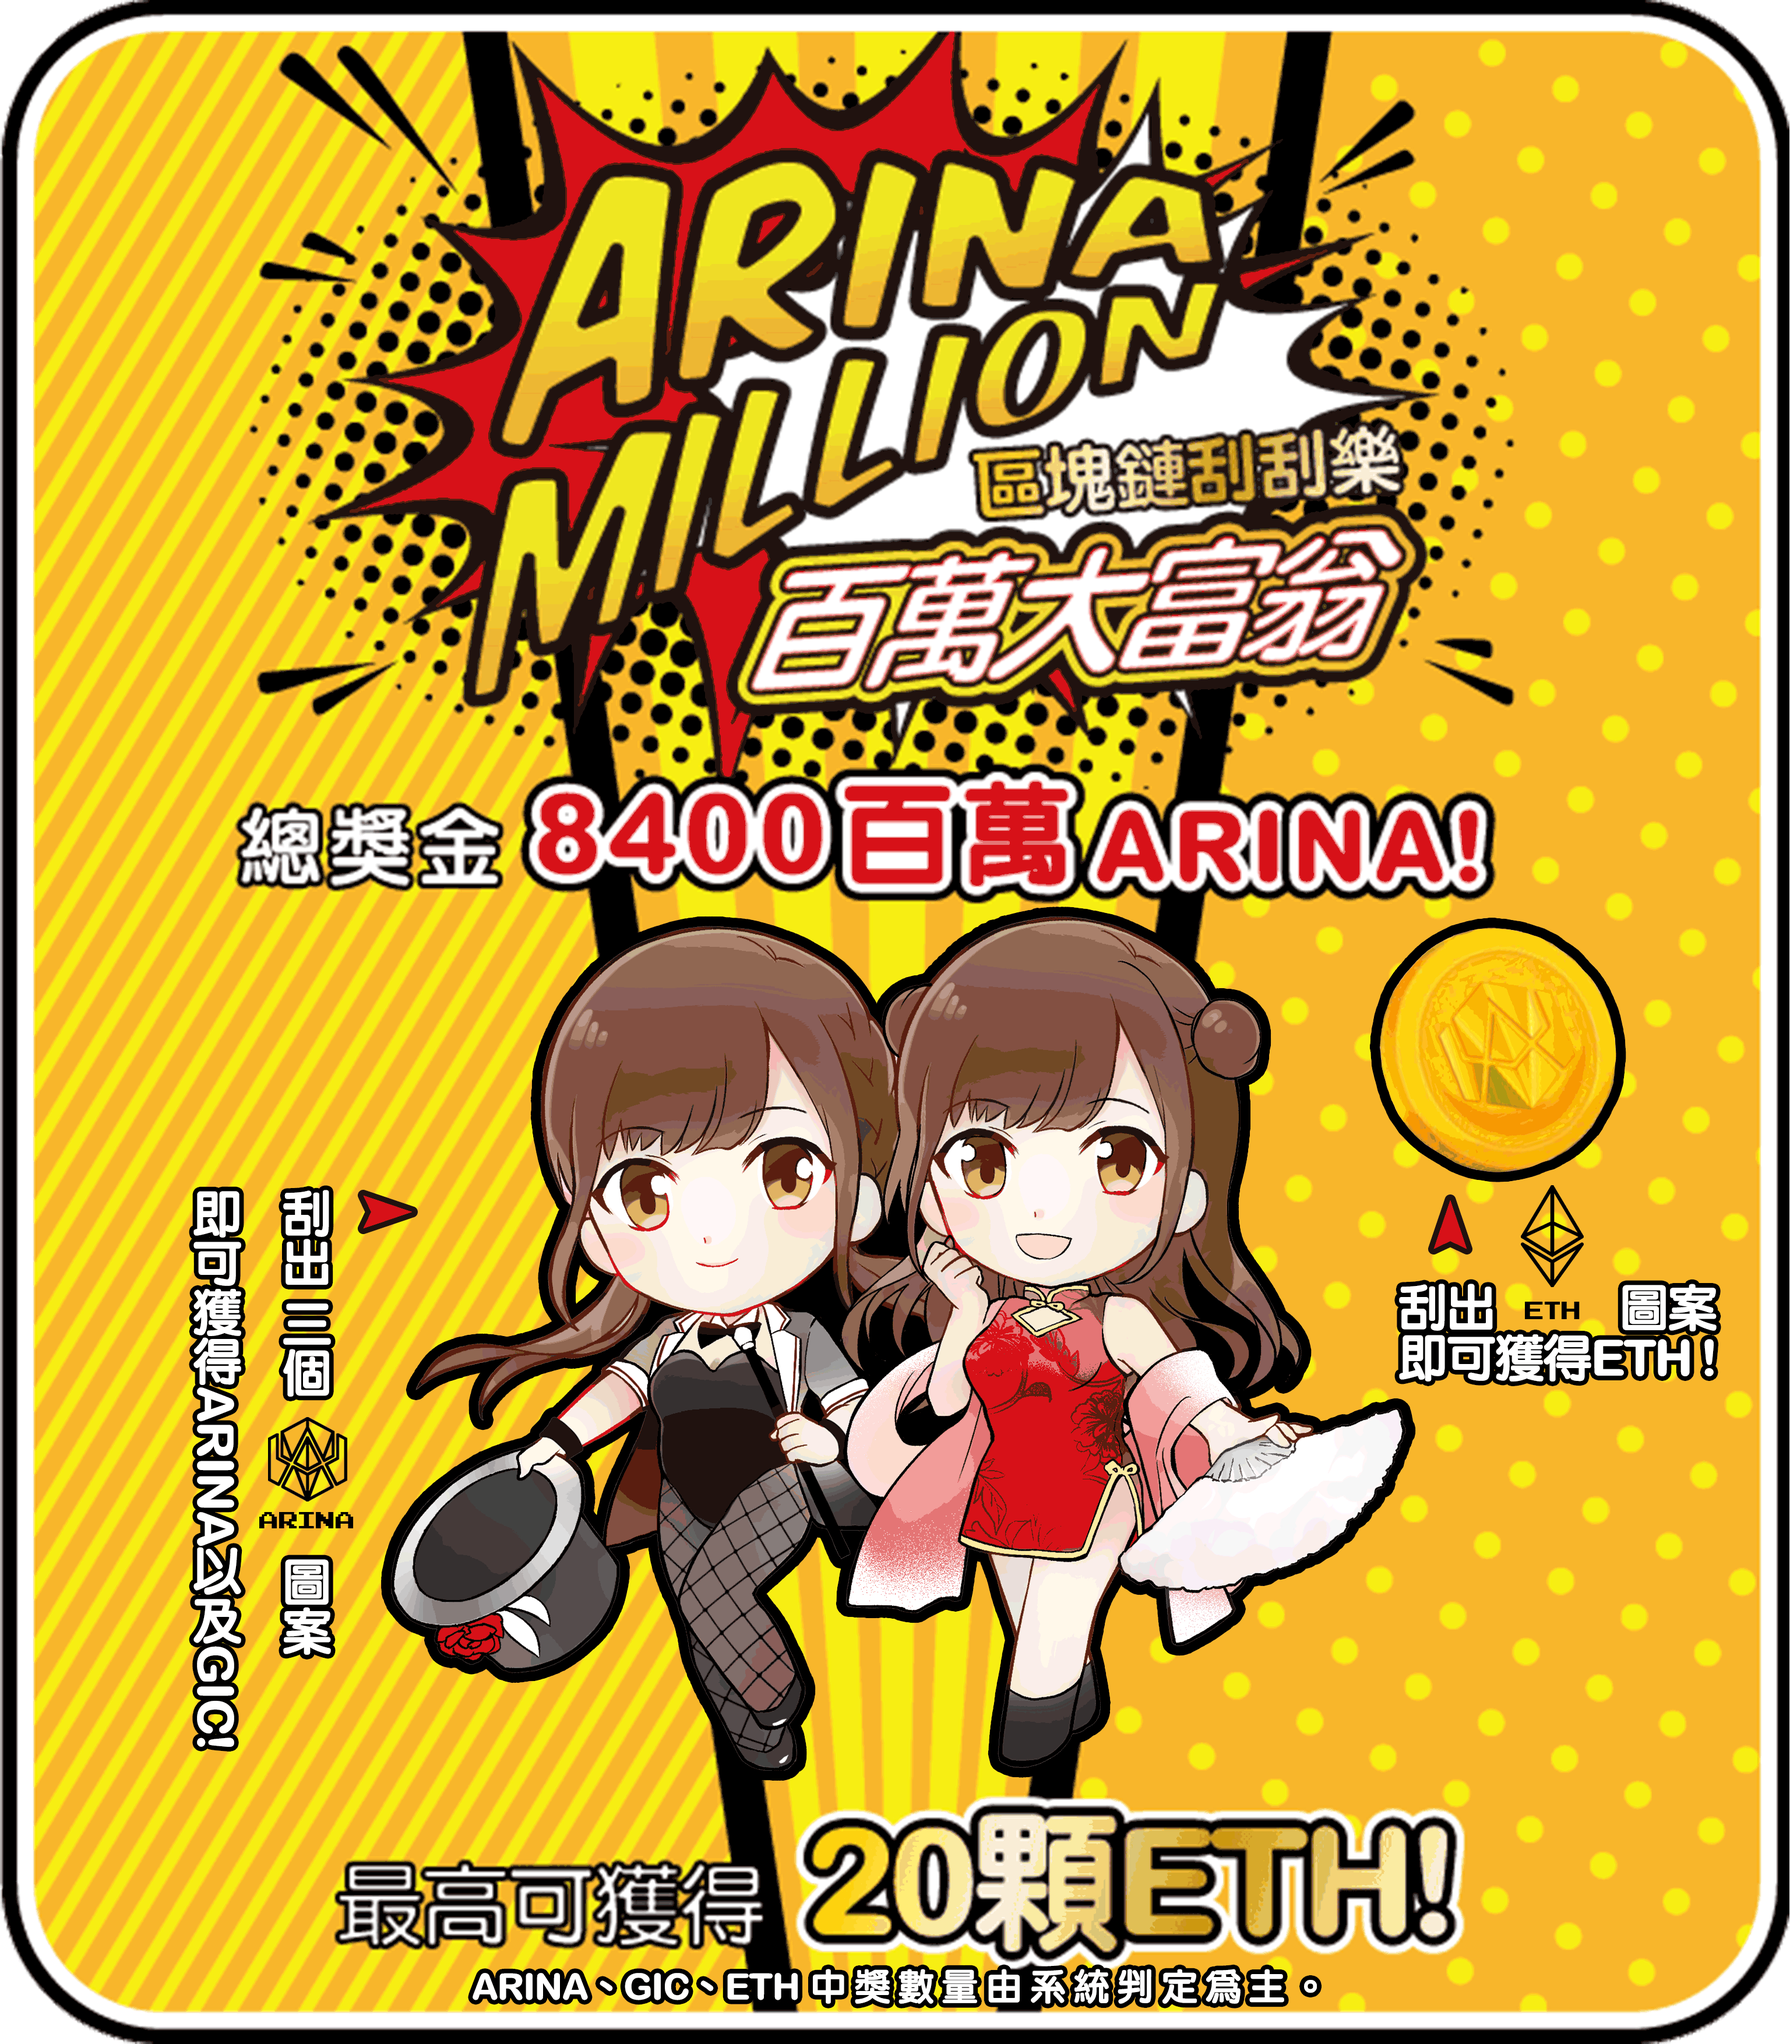
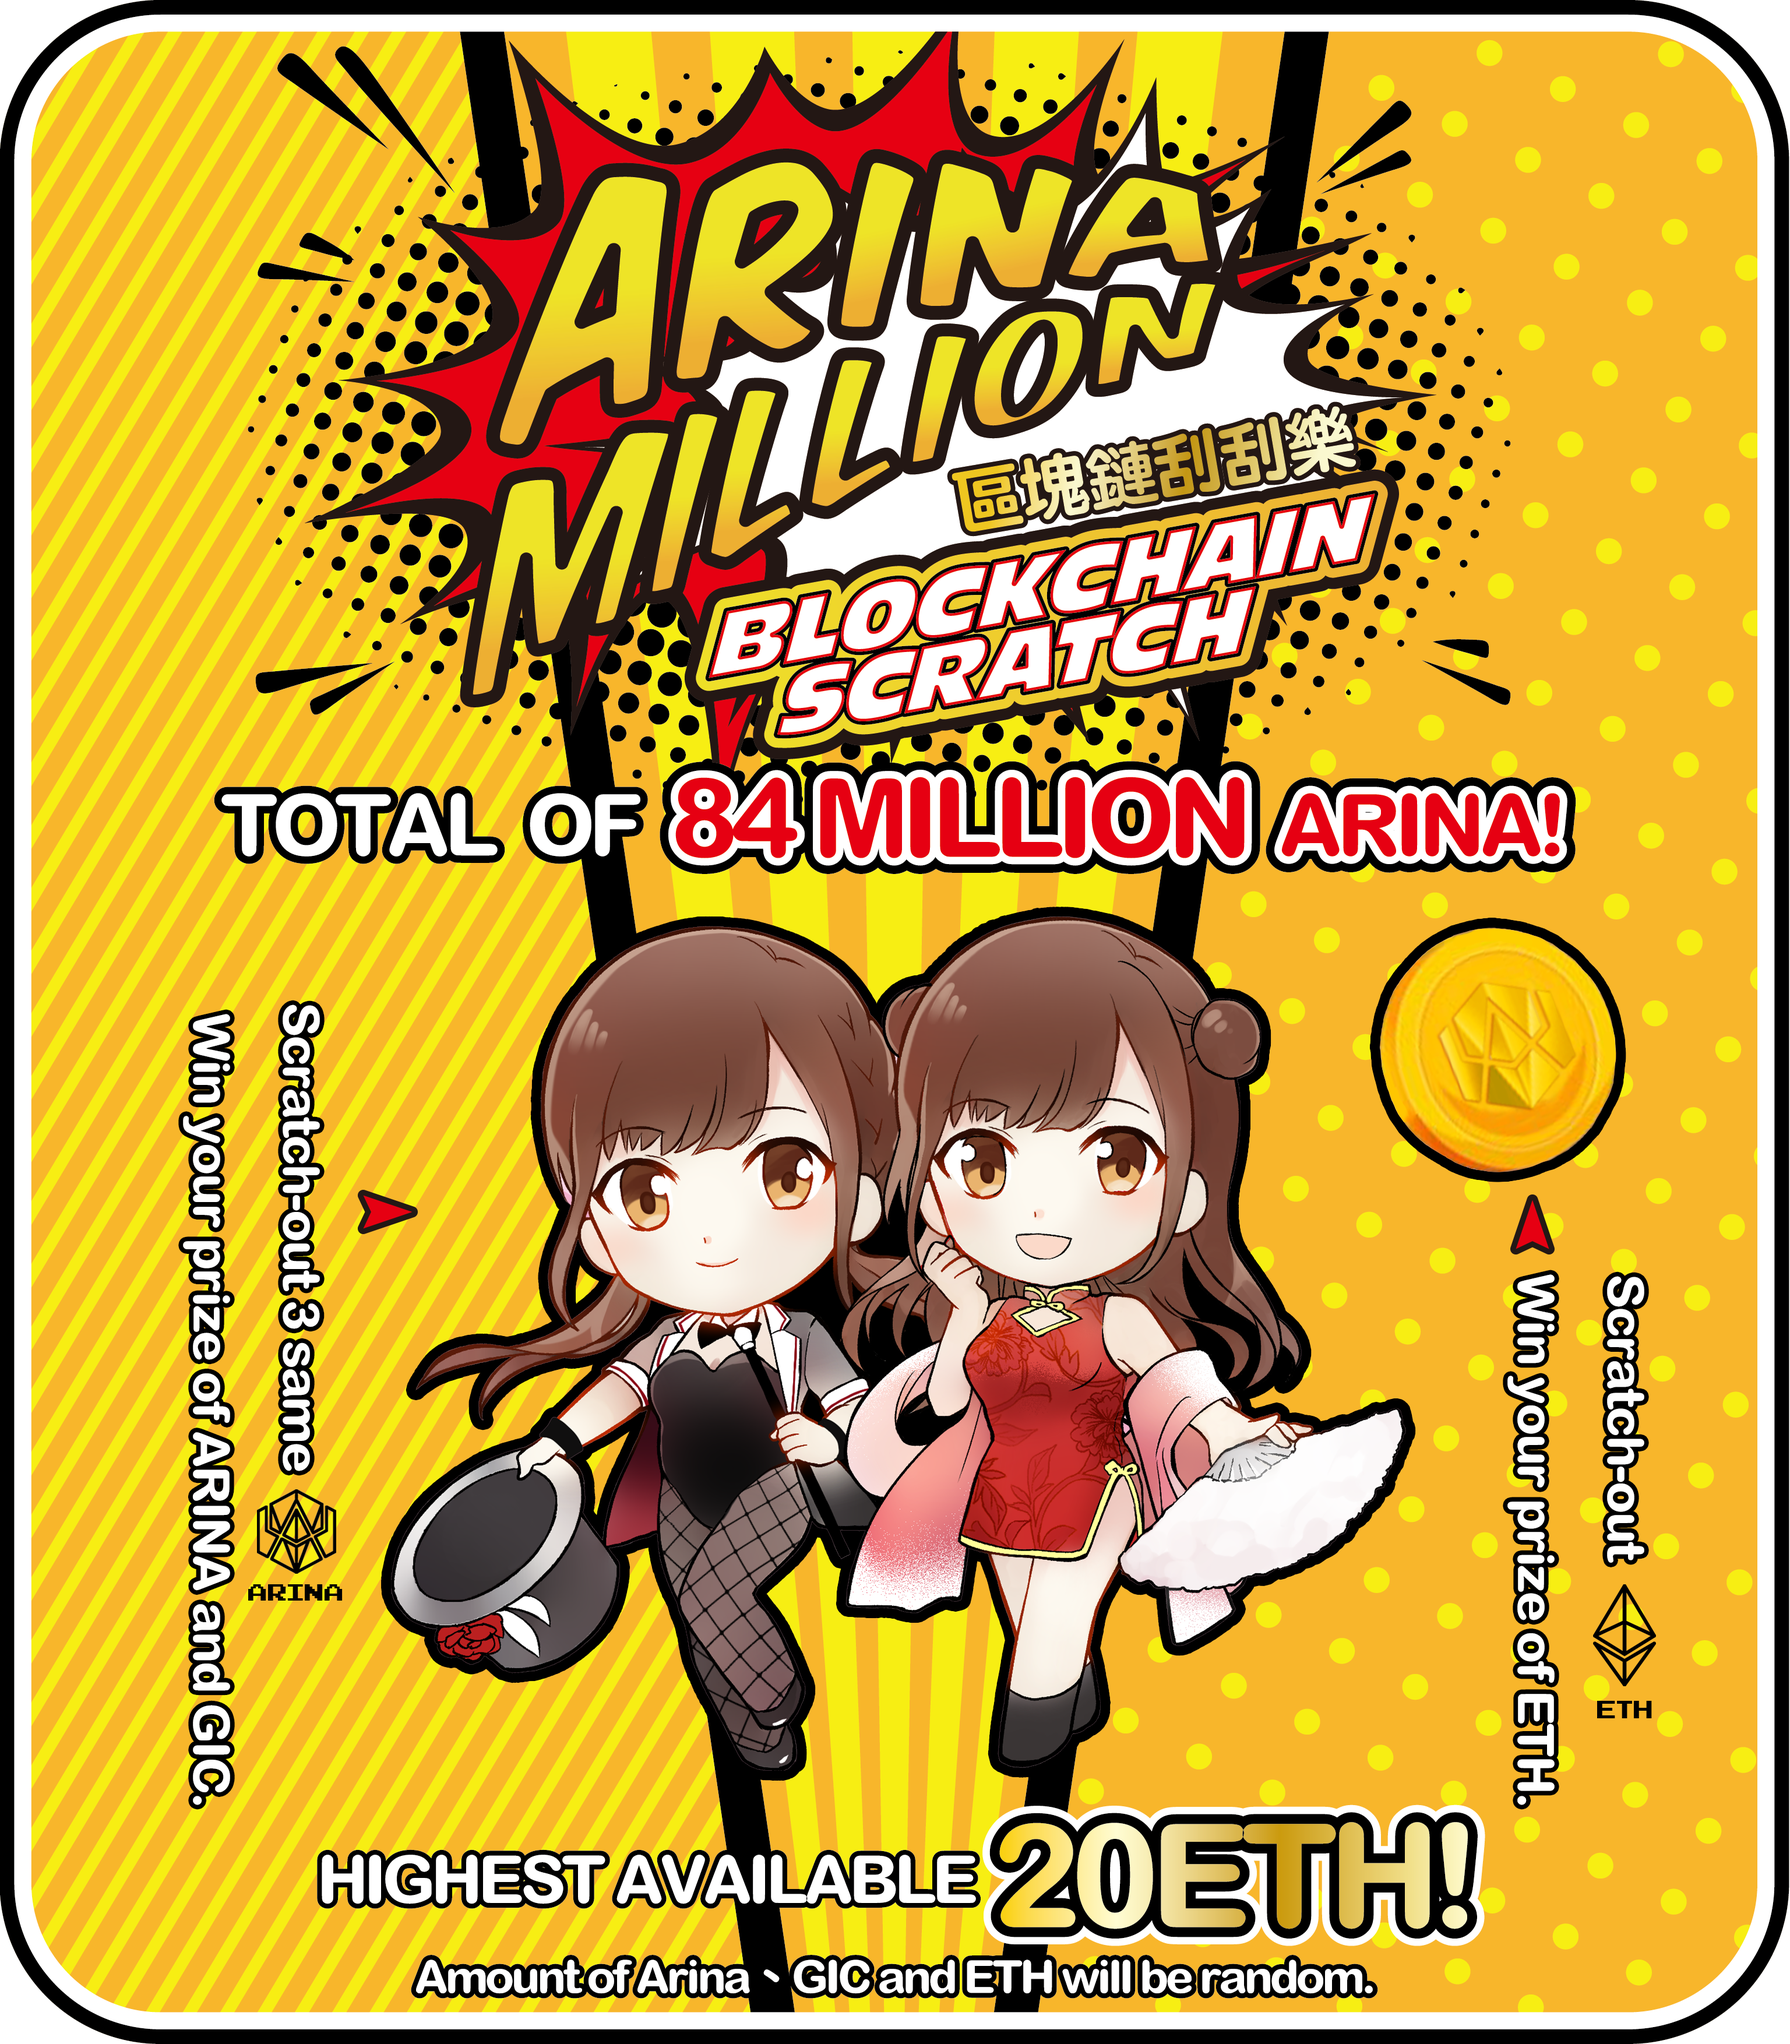
add i18n

diff --git a/scratch/lotto.html b/scratch/lotto.html
@@ -27,15 +27,15 @@
       <div class="container-fluid">
           <ul class="nav justify-content-end">
             <li class="nav-item" >
-                <a class="nav-link active" style="font-weight: 900; color:white;" href="index.html">HOME</a>
+                <a class="nav-link active"href="index.html">HOME</a>
             </li>  
             <li class="nav-item" >
-              <a class="nav-link active" style="font-weight: 900; color:white;" href="howToPlay.html">HOW TO PLAY</a>
+              <a class="nav-link active" href="howToPlay.html">HOW TO PLAY</a>
             </li>
             <li class="nav-item">
-              <a class="nav-link" href="#" style="font-weight: 900; color:white;" data-toggle="modal" data-target="#information">INFORMATION</a>
+              <a class="nav-link" href="#"  data-toggle="modal" data-target="#information">INFORMATION</a>
               <!-- Modal -->
-            <div class="modal fade" id="information" tabindex="-1" role="dialog" aria-labelledby="informationTitle" aria-hidden="true">
+              <div class="modal fade" id="information" tabindex="-1" role="dialog" aria-labelledby="informationTitle" aria-hidden="true">
                 <div class="modal-dialog modal-dialog-centered" role="document">
                   <div class="modal-content">
                     <div class="modal-header">
@@ -62,30 +62,38 @@
               </div>
             </li>
             <li class="nav-item">
-              <a class="nav-link" style="font-weight: 900; color:white;" href="https://etherscan.io/address/0xcCdA5213d453388fB5fB43054BC261c8636b1e51#code" target="_blank" >SMART CONTRACT</a>
+              <a class="nav-link" href="https://etherscan.io/address/0xcCdA5213d453388fB5fB43054BC261c8636b1e51#code" target="_blank" >SMART CONTRACT</a>
+            </li>
+
+            <li class="nav language">
+                <select id="language" class="selectpicker form-control form-control-sm" data-width="auto" data-style="btn-primary" name="language" onchange="changelang()">
+                    <option value="en">ENG</option>
+                    <option value="zh_TW">TW</option>
+                    <option value="zh_CN">CN</option>
+                </select> 
             </li>
           </ul>
-            
+      <!---------scratch----------------------->
             <div id="scratch">
-                <span style="font-size: 8vmin; text-align: center; color:white; font-weight: 900; position: absolute; top: 8%;">三選一</span>  
+                <span data-i18n-text="chooseOne"></span>  
                 <figure class="snip1104 red" onclick="randLottery()">
                     <img src="img/scratchOffNotScratched.png"/>
                     <figcaption>
-                        <h2>選我<span>1</span></h2>
+                        <h2 data-i18n-text="chooseMe1"></h2>
                     </figcaption>
                     <a href="#"></a>
                 </figure>
                 <figure class="snip1104 blue" onclick="randLottery()">
                     <img src="img/scratchOffNotScratched.png"/>
                     <figcaption>
-                        <h2>選我<span>2</span></h2>
+                        <h2 data-i18n-text="chooseMe2"></h2>
                     </figcaption>
                     <a href="#"></a>
                 </figure>
                 <figure class="snip1104 green" onclick="randLottery()">
                     <img src="img/scratchOffNotScratched.png"/>
                     <figcaption>
-                        <h2>選我<span>3</span></h2>
+                        <h2 data-i18n-text="chooseMe3"></h2>
                     </figcaption>
                 </figure>
 
@@ -120,7 +128,7 @@
     <!--交易等待中-->
     <div id="loadingbg" style="display: none;">
         <div id='loading'>
-            <h1>交易進行中，請稍後。</h1>
+            <h1 data-i18n-text="loading"></h1>
             <div class="center">
               <div class="loader"></div>
             </div>
@@ -138,7 +146,7 @@
                   <div id="promo" class="scratchpad"></div>
               </div>
               <div class="modal-footer">
-                  <button type="button" onclick="aa()" class="btn btn-primary" data-dismiss="modal" >領獎</button>
+                  <button type="button" onclick="aa()" class="btn btn-primary" data-dismiss="modal" data-i18n-text="ReceivePrize"></button>
               </div>
             </div>
         </div>

diff --git a/scratch/css/main.css b/scratch/css/main.css
@@ -6,7 +6,20 @@ body{
     height: 100vh;
     height: 100vh;
 }
-
+.nav-link{
+    font-weight: 900; color:white;
+}
+.language{
+    margin-top:10px;
+}
+#language{
+    font-weight: 900; 
+    color: #fff;
+    background-color: #444;
+    border: 0;
+    border-radius: 25px;
+    margin-top: -5px;
+}
   figure.snip1104 {
       font-family: 'Raleway', Arial, sans-serif;
       position: relative;
